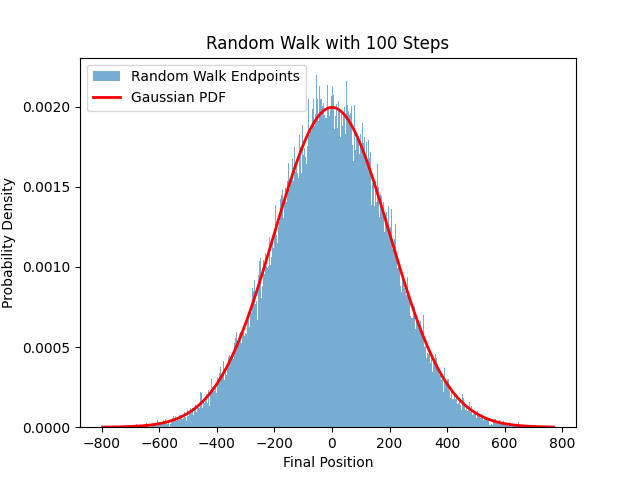
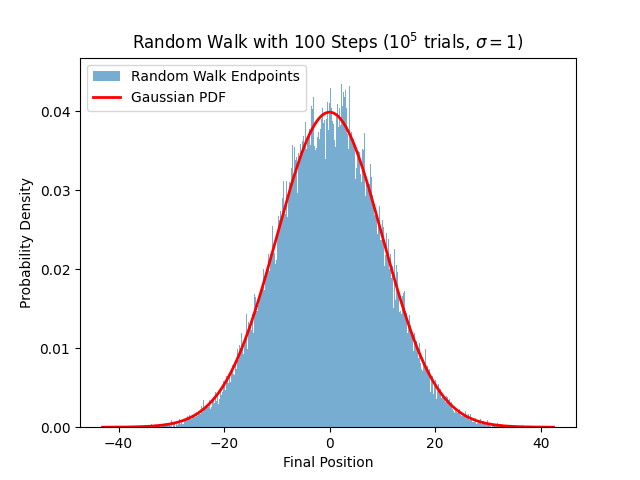
Added some stuff to the plot

diff --git a/random_walk.py b/random_walk.py
@@ -6,7 +6,7 @@ import matplotlib.pyplot as plt
 # and the option to plot individual runs.
 random_walk_length = 100
 number_of_trials = 100000
-std_dev = 20
+std_dev = 1
 num_bins = 1000
 plot_option = False
 compare_gaussian = True
@@ -50,7 +50,8 @@ if compare_gaussian is True:
 
 plt.xlabel('Final Position')
 plt.ylabel('Probability Density')
-plt.title(f'Random Walk with {random_walk_length} Steps')
+number_of_trials = 100000
+plt.title(f"Random Walk with {random_walk_length} Steps ($10^{{{int(np.log10(number_of_trials))}}}$ trials, $\sigma =${std_dev})")
 plt.legend()
 plt.savefig('random_walk.png')
 plt.show()
